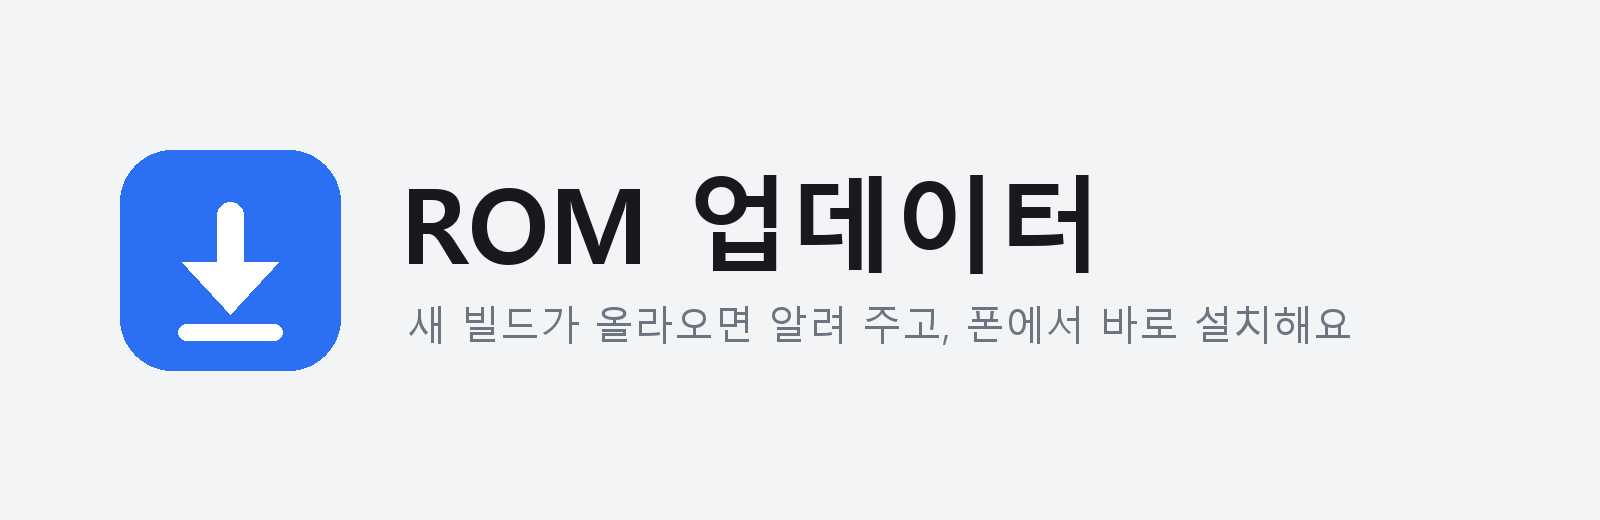
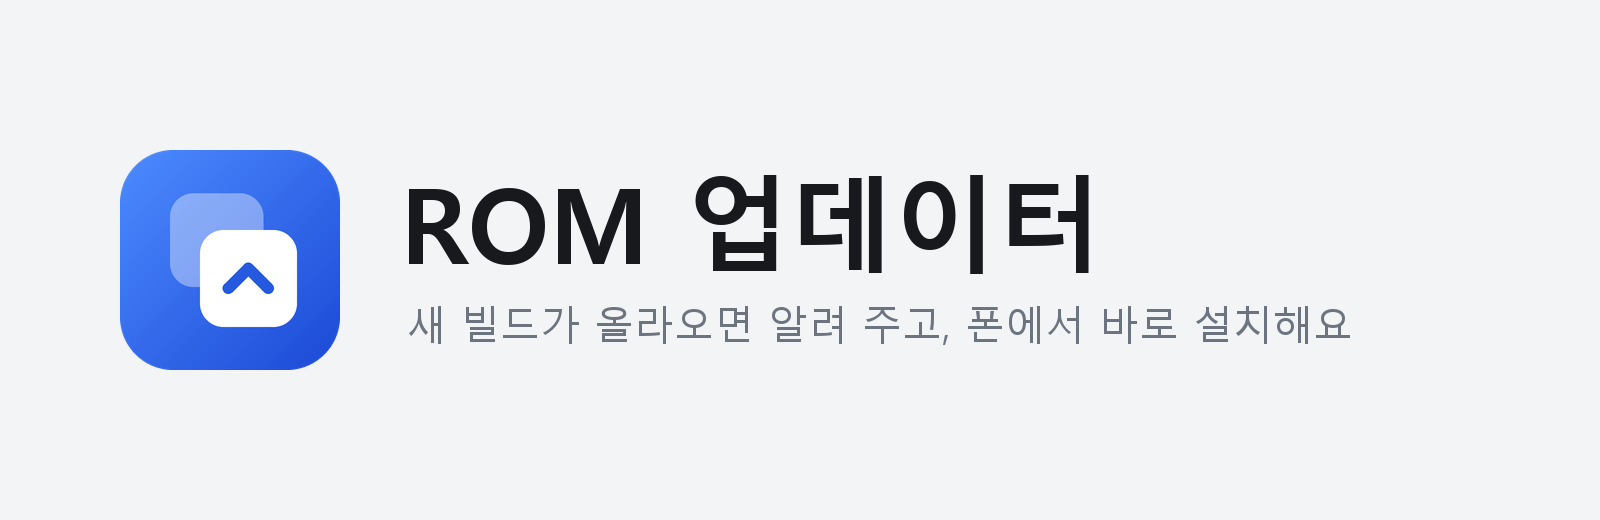
앱 아이콘을 슬롯 두 개 모양으로 새로 그림
- 파랑 그라데이션 바탕에 겹친 네모 둘: 흐린 쪽이 쓰는 슬롯, 흰 쪽이 새 빌드가 올라가는 슬롯
- 테마 아이콘용 단색 버전 추가
- README 배너도 같은 아이콘으로 다시 만들고 docs/icon.png 추가
- 0.1.1

Claude-Session: https://claude.ai/code/session_01N2Wa5Z8tyBnx7vj8miRagW

Changed region(s): [[0.0625, 0.2769, 0.2188, 0.7385]]

diff --git a/tools/make_banner.py b/tools/make_banner.py
@@ -2,22 +2,46 @@
 from PIL import Image, ImageDraw, ImageFont
 
 W, H = 1600, 520
-GROUND, INK, SOFT, ACCENT = "#F3F4F6", "#17191C", "#6C7480", "#2B6FF3"
+GROUND, INK, SOFT = "#F3F4F6", "#17191C", "#6C7480"
+TOP, BOTTOM, CHEVRON = (77, 139, 255), (27, 73, 214), (36, 89, 224)
+
+
+def mark(size):
+    """The app icon: two slots on a blue gradient. Same geometry as ic_launcher_foreground.xml (108 units, 66 visible)."""
+    k = 4  # supersample
+    n = size * k
+    u = n / 66  # one icon unit; the visible part of the adaptive icon is the middle 66 of 108
+
+    def p(v):
+        return (v - 21) * u
+
+    tile = Image.new("RGB", (n, n))
+    px = tile.load()
+    for y in range(n):
+        for x in range(n):
+            t = min(1, max(0, (x + y) / (2 * n)))
+            px[x, y] = tuple(round(a + (b - a) * t) for a, b in zip(TOP, BOTTOM))
+    back = Image.new("RGBA", (n, n), (0, 0, 0, 0))
+    ImageDraw.Draw(back).rounded_rectangle((p(36), p(34), p(64), p(62)), radius=7 * u, fill=(255, 255, 255, 97))
+    tile = Image.alpha_composite(tile.convert("RGBA"), back)
+    d = ImageDraw.Draw(tile)
+    d.rounded_rectangle((p(45), p(45), p(74), p(74)), radius=7 * u, fill="white")
+    w = round(3.4 * u)
+    points = [(p(53.5), p(62.5)), (p(59.5), p(56.5)), (p(65.5), p(62.5))]
+    d.line(points, fill=CHEVRON, width=w, joint="curve")
+    for x, y in points:
+        d.ellipse((x - w / 2, y - w / 2, x + w / 2, y + w / 2), fill=CHEVRON)
+    mask = Image.new("L", (n, n), 0)
+    ImageDraw.Draw(mask).rounded_rectangle((0, 0, n - 1, n - 1), radius=n * 0.24, fill=255)
+    tile.putalpha(mask)
+    return tile.resize((size, size), Image.LANCZOS)
+
 
 img = Image.new("RGB", (W, H), GROUND)
+icon = mark(220)
+img.paste(icon, (120, 150), icon)
 d = ImageDraw.Draw(img)
-bold = "C:/Windows/Fonts/malgunbd.ttf"
-regular = "C:/Windows/Fonts/malgun.ttf"
-
-# App mark: a rounded blue tile with a download arrow.
-x, y, s = 120, 150, 220
-d.rounded_rectangle((x, y, x + s, y + s), radius=52, fill=ACCENT)
-cx = x + s // 2
-d.rounded_rectangle((cx - 13, y + 52, cx + 13, y + 128), radius=13, fill="white")
-d.polygon([(cx - 48, y + 112), (cx + 48, y + 112), (cx, y + 164)], fill="white")
-d.rounded_rectangle((cx - 52, y + 174, cx + 52, y + 190), radius=8, fill="white")
-
-d.text((400, 150), "ROM 업데이터", font=ImageFont.truetype(bold, 104), fill=INK)
-d.text((406, 296), "새 빌드가 올라오면 알려 주고, 폰에서 바로 설치해요", font=ImageFont.truetype(regular, 40), fill=SOFT)
-
+d.text((400, 150), "ROM 업데이터", font=ImageFont.truetype("C:/Windows/Fonts/malgunbd.ttf", 104), fill=INK)
+d.text((406, 296), "새 빌드가 올라오면 알려 주고, 폰에서 바로 설치해요", font=ImageFont.truetype("C:/Windows/Fonts/malgun.ttf", 40), fill=SOFT)
 img.save("docs/banner.png", optimize=True)
+mark(512).save("docs/icon.png", optimize=True)

diff --git a/README.md b/README.md
@@ -104,6 +104,7 @@ adb shell am start -S -n dev.romupdater/.MainActivity --es installedDate 2026100
 - 받는 중과 설치하는 중에는 숫자를 가장 크게 보여 줍니다.
 - 설치는 되돌리기 번거로운 일이라, 누르면 아래에서 올라오는 시트로 한 번 더 묻습니다.
 - 다크 모드는 기기 설정을 따릅니다.
+- 아이콘은 겹친 네모 두 개입니다. 흐린 쪽이 지금 쓰는 슬롯, 앞의 흰 쪽이 새 빌드가 올라가는 슬롯입니다.
 
 ## 알려진 한계
 
